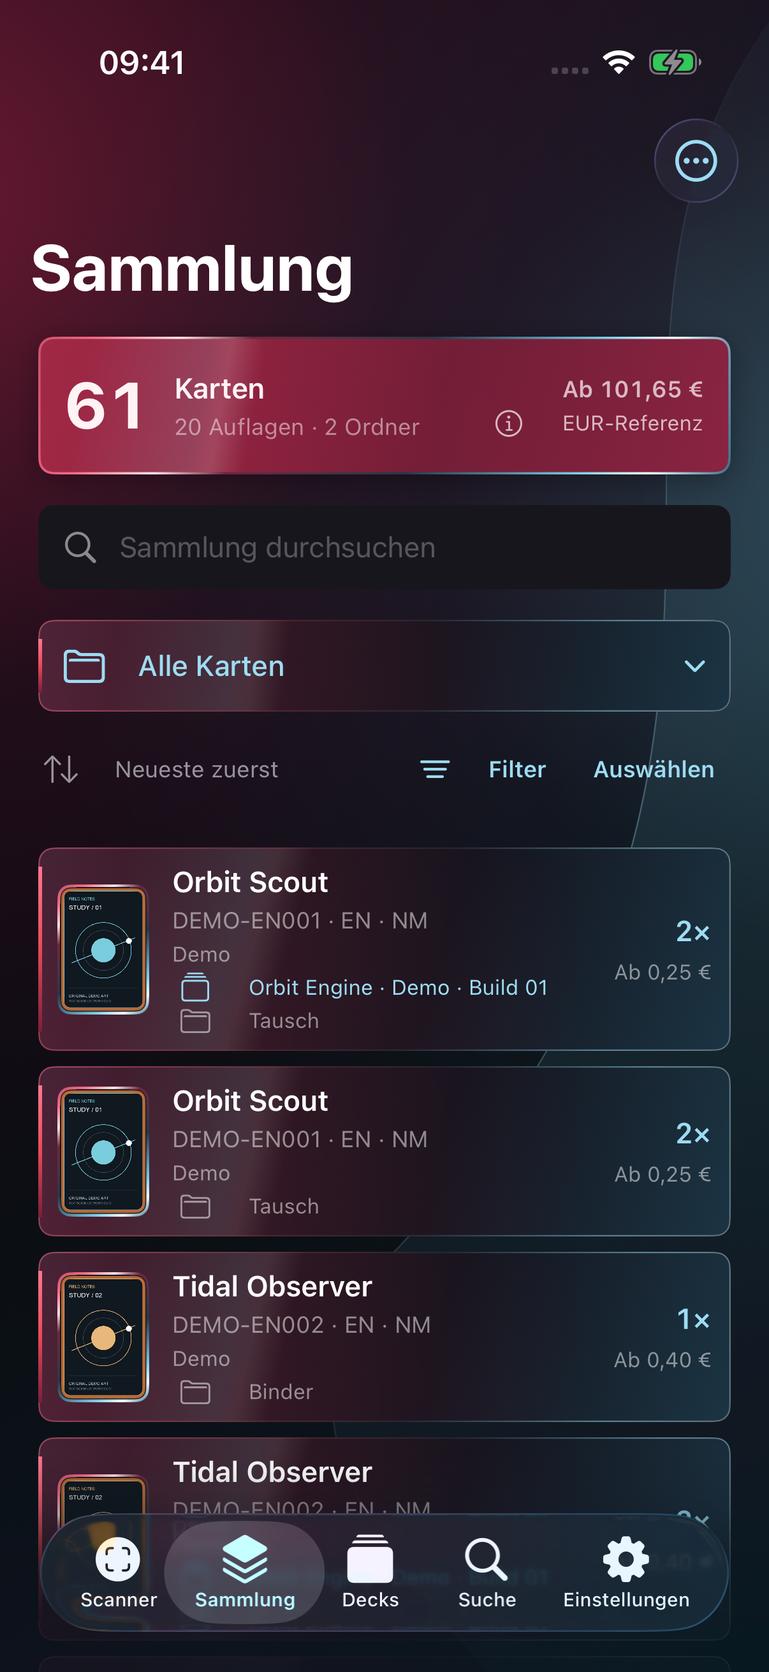
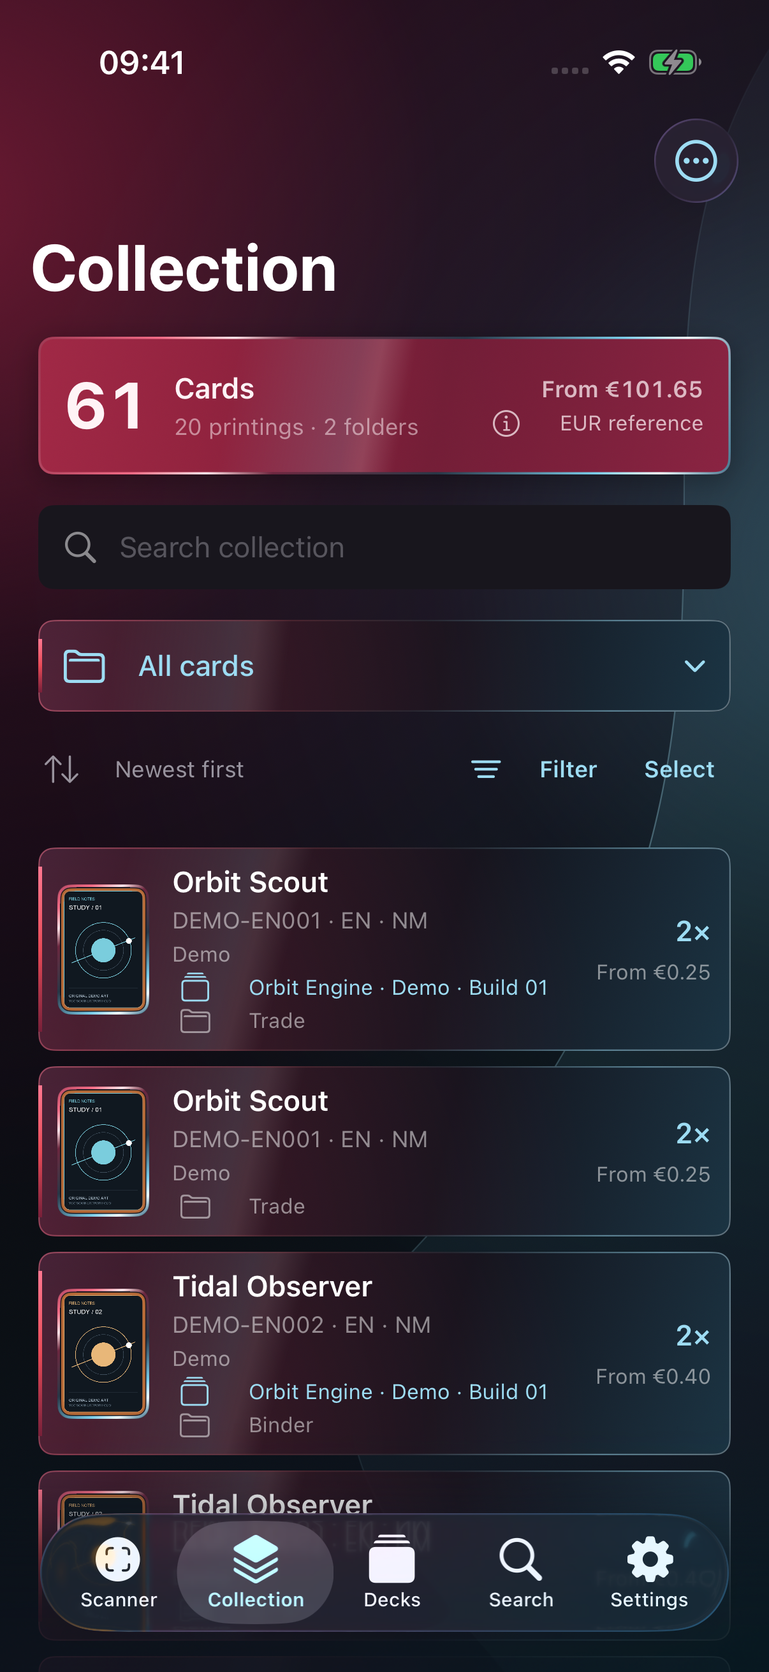
Simplify English showcase and feature Millennium scanner views

diff --git a/scripts/check_repository.py b/scripts/check_repository.py
@@ -20,7 +20,8 @@ required = ['README.md', 'NOTICE.md', 'Package.swift', 'AGENTS.md', 'justfile', 
             'docs/PRD.md', 'docs/ARCHITECTURE.md', 'docs/SCHEMA.md', 'docs/TASKS.md',
             'docs/SCREENSHOTS.md', 'assets/hero.svg', '.github/workflows/check.yml']
 required += [f'assets/screenshots/{name}.png' for name in
-             ['01-collection', '02-deck', '03-card-detail', '04-missing-cards', '05-scan-detail']]
+             ['01-collection', '02-deck', '03-card-detail', '04-missing-cards', '05-scan-detail',
+              '06-scanner', '07-millennium']]
 for name in required:
     if not (ROOT / name).is_file():
         errors.append('Missing required file: ' + name)

diff --git a/README.md b/README.md
@@ -1,63 +1,41 @@
-<img src="assets/hero.svg" alt="YGO Scanner – native iOS-Kartenverwaltung" width="100%">
+<img src="assets/hero.svg" alt="YGO Scanner in the app's purple and gold Millennium style" width="100%">
 
 # YGO Scanner
 
-Eine native iPhone-App, mit der ich meine physische Kartensammlung erfasse, Auflagen auseinanderhalte und Decks mit meinem tatsächlichen Bestand abgleiche.
+A native iPhone companion for scanning cards, organizing a physical collection, and building decks around the copies I actually own.
 
-**Persönliches Projekt von [Hallaka01](https://github.com/Hallaka01)** · SwiftUI · SwiftData · AVFoundation · Vision · iOS 17+
+**A personal project by [Hallaka01](https://github.com/Hallaka01)** · SwiftUI · SwiftData · AVFoundation · Vision · iOS 17+
 
-Dieses Repository ist die öffentliche Projektpräsentation. Es enthält echte Screenshots eines isolierten Demo-Stands und ausgewählte, ausführbare Codeauszüge. Der vollständige App-Code und meine persönlichen Sammlungsdaten bleiben privat. Das Projekt wird KI-unterstützt entwickelt.
+## Inside the app
 
-## Ein Blick in die App
-
-| Sammlung | Deckplanung | Fehlende Exemplare |
+| Scanner | Millennium theme | Deck planning |
 | :---: | :---: | :---: |
-| <img src="assets/screenshots/01-collection.png" width="260" alt="Sammlung mit erfundenen Karten und Bestandsübersicht"> | <img src="assets/screenshots/02-deck.png" width="260" alt="Deckrezept mit Main, Extra und Side sowie Besitzabgleich"> | <img src="assets/screenshots/04-missing-cards.png" width="260" alt="Dynamische Bedarfsliste für fehlende Deckkarten"> |
+| <img src="assets/screenshots/06-scanner.png" width="260" alt="Scanner with a passcode guide and a batch of pending cards"> | <img src="assets/screenshots/07-millennium.png" width="260" alt="Purple and gold Millennium theme with a card gallery"> | <img src="assets/screenshots/02-deck.png" width="260" alt="Deck recipe with copy availability and Main, Extra and Side sections"> |
 
-Alle gezeigten Karten, Texte, Besitzmengen und Preiswerte sind erfunden. Die Grafiken wurden eigens für diese Präsentation gestaltet. Die Screenshots zeigen die tatsächlichen SwiftUI-Ansichten der App, keine nachgebauten Web-Mockups. [Details zur Demo und Bildherkunft](docs/SCREENSHOTS.md)
+The **Millennium** theme pairs deep purple surfaces and gold frames with a card gallery. **Branded** uses crimson accents, pale blue highlights, and compact lists.
 
-Weitere Ansichten: [Kartendetails](assets/screenshots/03-card-detail.png) · [Detail eines Scan-Entwurfs](assets/screenshots/05-scan-detail.png)
+More views: [Branded collection](assets/screenshots/01-collection.png) · [Card details](assets/screenshots/03-card-detail.png) · [Missing copies](assets/screenshots/04-missing-cards.png) · [Scan review](assets/screenshots/05-scan-detail.png)
 
-## Was die App löst
+*Real app views with fictional demo cards. The scanner camera preview is simulated. [Screenshot notes](docs/SCREENSHOTS.md)*
 
-- **Scannen ohne Doppelzählung:** Die Kamera liest den achtstelligen Kartenpasscode. Mehrere unterschiedliche Kamerabilder müssen denselben Treffer bestätigen; ein kurzer Erkennungsaussetzer erzeugt kein zusätzliches Exemplar.
-- **Auflagen bewusst erfassen:** Karten-ID und Druckvariante sind unterschiedliche Informationen. Set-Code, Seltenheit, Sprache und Zustand bleiben getrennt; mehrdeutige Treffer müssen bestätigt werden.
-- **Erst sammeln, dann übernehmen:** Scans landen zunächst in einem lokal gespeicherten Entwurfsstapel. Erst ein ausdrücklicher Transfer verändert Sammlung oder Deck.
-- **Physischer Bestand statt bloßer Listen:** Jedes Exemplar lässt sich einem Ordner und exklusiv einem Deck zuordnen. Die App unterscheidet Gesamtbesitz, freie Exemplare und bereits anderweitig belegte Karten.
-- **Deckbedarf sichtbar machen:** Main, Extra und Side werden gemeinsam gezählt. Fehlmengen erscheinen als dynamische Bedarfsliste und schrumpfen, wenn passende Exemplare hinzukommen.
-- **Daten mitnehmen:** YDK für Deckrezepte, XML für Auswertungen und JSON für die Sicherung von Sammlung und Decks.
+## What it does
 
-## Technische Entscheidungen
+- **Scan and review:** Read card passcodes, confirm repeated observations, and collect scans in a draft batch before saving.
+- **Track physical copies:** Keep printings, language, condition, folders, and deck assignments together.
+- **Plan complete decks:** Manage Main, Extra, and Side; distinguish owned, available, and missing copies.
+- **Keep data portable:** Export YDK decklists, XML reports, and JSON backups.
 
-### Native Kamera und nachvollziehbare Erkennung
+## Under the hood
 
-AVFoundation steuert die Kamera; Vision verarbeitet einen begrenzten Bildausschnitt. OCR-Auswertung, zeitliche Bestätigung und Wiedererkennung sind separate Schritte. So lassen sich problematische Fälle ohne Kamera-Hardware testen.
+SwiftUI handles the interface, AVFoundation and Vision handle camera recognition, and SwiftData stores the collection locally. Card data and images use separate caches.
 
-→ [Scanner-Erkennung und Bestätigung](Examples/ScannerCore/ScanRecognition.swift)
+Selected Swift extracts show [scan confirmation](Examples/ScannerCore/ScanRecognition.swift), [printing codes](Examples/ScannerCore/PrintingCode.swift), and [inventory availability](Examples/ScannerCore/DeckInventory.swift).
 
-### Bestand und Deckrezept getrennt modellieren
+[Architecture](docs/ARCHITECTURE.md) · [Data model](docs/SCHEMA.md)
 
-Ein Rezept mit drei gleichen Karten bedeutet noch nicht, dass drei freie physische Exemplare vorhanden sind. Der Bestandsindex aggregiert eigene, freie und fremdbelegte Exemplare getrennt. Das vermeidet, dieselbe Karte gleichzeitig mehreren Decks als verfügbar anzurechnen.
+## Run the examples
 
-→ [Bestandsabgleich](Examples/ScannerCore/DeckInventory.swift) · [Datenmodell](docs/SCHEMA.md)
-
-### Lokale Speicherung mit klaren Zuständigkeiten
-
-SwiftData speichert Sammlung, Ordner und Decks. Scan-Entwürfe liegen separat als JSON vor; Kartendaten und Bilder werden unabhängig zwischengespeichert. Persistente Objekte bleiben in ihrem jeweiligen Kontext; Listen erhalten dafür geeignete Vorschauwerte.
-
-→ [Architektur und Datenfluss](docs/ARCHITECTURE.md)
-
-### Fremdsprachige Auflagen nicht stillschweigend erraten
-
-Set-Codes werden normalisiert und auf ihre Form geprüft. Eine englische Referenz kann beim Nachschlagen helfen, ersetzt aber nicht automatisch die Bestätigung der tatsächlich vorhandenen Auflage oder deren Preis.
-
-→ [Auflagencode-Normalisierung](Examples/ScannerCore/PrintingCode.swift)
-
-## Die Codebeispiele ausführen
-
-Das kleine Swift-Package enthält unabhängige Auszüge der App-Logik, keine startfähige App. Es benötigt keine API-Zugangsdaten und keine Kartenbilder.
-
-Voraussetzungen: macOS 14+, Swift 5.9+ sowie [just](https://github.com/casey/just) und [Lefthook](https://github.com/evilmartians/lefthook).
+Requires macOS 14+, Swift 5.9+, [just](https://github.com/casey/just), and [Lefthook](https://github.com/evilmartians/lefthook).
 
 ```sh
 just setup
@@ -65,23 +43,10 @@ just check
 just test
 ```
 
-Die Tests behandeln unter anderem mehrdeutige OCR-Treffer, tatsächlich unterschiedliche Kamerabilder, kurze Erkennungsaussetzer und Exemplare, die bereits in einem anderen Deck liegen. GitHub Actions führt die Prüfungen ebenfalls aus.
+Ten tests cover ambiguous OCR, frame confirmation, brief recognition dropouts, printing codes, and copies assigned to other decks. GitHub Actions runs the same checks.
 
-## Projektstatus und Grenzen
+## About
 
-- Die private App ist für meine persönliche Sammlung im Einsatz; dieses Repository ist eine begleitende Präsentation.
-- Der reale Kamerascanner benötigt ein iPhone. Simulator-Screenshots belegen Darstellung und Demo-Abläufe, keine Erkennungsleistung auf physischer Hardware.
-- Bereits gespeicherte Daten sind lokal verfügbar. Neue Kartendaten, Bilder und Aktualisierungen können Internet benötigen.
-- Die Deckprüfung ist eine Unterstützung und keine verbindliche Turnierfreigabe. Kartenpool, Spezialregeln und Aktualität der Datenquelle setzen Grenzen.
-- Eine automatische geräteübergreifende Synchronisierung ist im gezeigten Stand nicht eingerichtet.
-- Es wird hier kein App-Download angeboten. Öffentliche Sichtbarkeit erteilt keine allgemeine Open-Source-Nutzungslizenz; siehe [Nutzung und Rechte](NOTICE.md).
+This repository presents a personal app; the full application and collection data remain private. It contains standalone code examples, not an app download.
 
-## Datenquellen und Einordnung
-
-Die private App nutzt [YGOPRODeck](https://api.ygoprodeck.com/api-guide/) für Kartendaten und ergänzend [Yugipedia](https://yugipedia.com/) für Auflagenrecherchen. Dieses Repository veröffentlicht weder einen vollständigen Kartendatensatz noch offizielle Kartenillustrationen. Die Portfolio-Demo lädt ihre erfundenen Karten lokal.
-
-Unabhängiges persönliches Projekt für das Yu-Gi-Oh! TCG, ohne Verbindung zu Konami. Marken und Spielinhalte verbleiben bei ihren jeweiligen Rechteinhabern.
-
-## English summary
-
-A native iOS collection companion built with SwiftUI, SwiftData, AVFoundation and Vision. The private application combines stable multi-frame card recognition, staged scan batches, physical-copy inventory and deck planning. This public showcase contains real simulator screenshots using entirely fictional demo content and focused, testable Swift extracts. It does not distribute the full app or official card artwork.
+The app uses [YGOPRODeck](https://api.ygoprodeck.com/api-guide/) and [Yugipedia](https://yugipedia.com/) as data sources. This independent project is not affiliated with Konami. [Rights and usage](NOTICE.md)

diff --git a/docs/SCREENSHOTS.md b/docs/SCREENSHOTS.md
@@ -1,36 +1,21 @@
-# Screenshots und Bildherkunft
+# Screenshot notes
 
-## Was gezeigt wird
+Captured from a separate iPhone 17 Pro simulator running the app's SwiftUI views. All cards, text, prices, quantities, and decks are fictional; [demo artwork](../assets/demo-cards) uses original geometric designs.
 
-Die Screenshots wurden am 29. Oktober 2026 mit einem getrennten iPhone-17-Pro-Simulator aufgenommen. Sie zeigen die vorhandenen SwiftUI-Ansichten einer temporären Demo-Kopie der privaten Anwendung.
-
-| Datei | Ansicht |
+| View | Theme |
 | --- | --- |
-| [Sammlung](../assets/screenshots/01-collection.png) | Gruppierte Karten und Sammlungsübersicht. |
-| [Deck](../assets/screenshots/02-deck.png) | Rezept, Bereiche und Bestandsanzeige. |
-| [Kartendetails](../assets/screenshots/03-card-detail.png) | Lesbarer Text und Werte einer erfundenen Karte. |
-| [Fehlende Karten](../assets/screenshots/04-missing-cards.png) | Bedarfsliste auf Basis physischer Verfügbarkeit. |
-| [Scan-Entwurf](../assets/screenshots/05-scan-detail.png) | Detailansicht einer noch nicht übernommenen Karte. |
+| [Collection](../assets/screenshots/01-collection.png) | Branded |
+| [Deck planning](../assets/screenshots/02-deck.png) | Branded |
+| [Card details](../assets/screenshots/03-card-detail.png) | Branded |
+| [Missing copies](../assets/screenshots/04-missing-cards.png) | Branded |
+| [Scan review](../assets/screenshots/05-scan-detail.png) | Branded |
+| [Scanner](../assets/screenshots/06-scanner.png) | Millennium |
+| [Collection gallery](../assets/screenshots/07-millennium.png) | Millennium |
 
-## Anpassungen ausschließlich für die Aufnahme
+The demo uses isolated in-memory storage and local images. Its labels are translated into English for this presentation. The original private application is unchanged.
 
-- Getrennte In-Memory-Datenbank; kein Zugriff auf die echte Sammlung.
-- Erfundenes Demo-Deck sowie erfundene Karten, Werte, Texte und Preisreferenzen.
-- Originale geometrische Demo-Grafiken aus [assets/demo-cards](../assets/demo-cards).
-- Eigenständiges Scanner-Signet statt des privaten App-Brandings.
-- Lokale Bildauflösung für die Demo-Karten; keine Abfragen nach echten Karten.
-- Ein vorab gefüllter Scan-Stapel demonstriert den Entwurfsablauf. Das ist keine Aufnahme einer echten Kameraerkennung.
+The scanner uses a static, explicitly labeled simulated camera preview and a prefilled draft batch. Its guide and controls are the app's existing UI; the screenshot does not demonstrate live camera recognition.
 
-Die Screenshots wurden automatisiert mit XCTest aus der laufenden App aufgenommen. Die UI wurde für das Portfolio nicht als HTML nachgebaut. Der vollständige Aufnahme-Build und seine Projektdateien sind kein Bestandteil dieses Repositorys.
+The banner uses the Millennium palette and framing. No official card illustrations, copied effect text, or private app assets are distributed.
 
-## Originalgrafiken
-
-Die sechs Demo-Kartenbilder, das Scanner-Signet und der SVG-Titelbanner wurden für dieses Portfolio aus eigenen geometrischen Formen und Text erstellt. Sie enthalten keine offiziellen Kartenrahmen, Illustrationen oder übernommenen Spieltexte. Die Originale liegen unter [assets](../assets).
-
-## Codeauszüge
-
-- `ScanRecognition.swift`: von UI, Kamera und Netzwerk unabhängige Erkennungs- und Bestätigungslogik.
-- `PrintingCode.swift`: Normalisierung und Prüfung von Auflagencodes; die vom vollständigen Kartendatenmodell abhängige Lookup-Struktur wurde weggelassen.
-- `DeckInventory.swift`: unveränderte Bestandsberechnung mit den dafür erforderlichen kleinen Werttypen aus separaten App-Dateien zusammengeführt.
-
-Diese Auszüge dienen der nachvollziehbaren technischen Begutachtung und führen keine privaten Sammlungsdaten mit.
+Code extracts preserve the app's core logic. Printing lookup dependencies are omitted; inventory value types are combined into one standalone file.

diff --git a/docs/ARCHITECTURE.md b/docs/ARCHITECTURE.md
@@ -1,19 +1,17 @@
-# Architektur
+# Architecture
 
-## Präsentations-Repository
-GitHub rendert README und Dokumentation. PNG-Screenshots liegen unter `assets/screenshots/`; eigenständig gestaltete Demo-Karten unter `assets/demo-cards/`. Das Swift-Package enthält ausgewählte, von Kamera, Netzwerk und SwiftData unabhängige Kernlogik. Es ist keine startfähige iOS-App.
+## Application
 
-## Gezeigte App
-Native iOS-App für iOS 17+: SwiftUI, SwiftData, AVFoundation, Vision und URLSession. Feature-Bereiche: Scanner, Sammlung, Decks, Suche und Einstellungen. Geschäftslogik und Modelle liegen getrennt von den Views im Core-Bereich.
+The private app targets iOS 17+ and uses SwiftUI, SwiftData, AVFoundation, Vision, and URLSession. Its main areas are scanning, collection, decks, search, and settings.
 
-Ein Kamerabild wird auf die Lesezone begrenzt, per Vision erkannt und über mehrere unterschiedliche Bilder bestätigt. Ein bestätigter Treffer wird erst als Entwurf gesammelt. Erst der ausdrückliche Transfer verändert Sammlung oder Deck.
+Camera observations pass through OCR parsing, confirmation across distinct frames, and duplicate suppression. Accepted cards enter a draft batch; an explicit transfer saves them to the collection or a deck.
 
-SwiftData speichert physische Karten, Decks, Deckeinträge und Ordner lokal. API-Antworten und Bilder werden getrennt zwischengespeichert. Ein Export erzeugt JSON-Sicherungen, XML zur Analyse oder YDK-Deckrezepte.
+SwiftData stores physical copies, folders, and deck recipes. Scan drafts use a separate JSON file. Card responses and images have independent caches.
 
-## Screenshot-Verfahren
-Eine temporäre Kopie des privaten Projekts wird mit isolierten Demo-Daten und eigenen Bilddateien gestartet. Die ursprünglichen UI-Komponenten werden verwendet. Keine persönlichen Daten und keine historischen App-Dateien werden in dieses Repository kopiert. Das vollständige temporäre Projekt ist kein Bestandteil des Portfolios.
+Themes share the same views and palette system. Millennium adds purple surfaces, gold frames, and a collection gallery; Branded uses crimson and pale blue accents with list layouts.
 
-## Qualität
-`just check` prüft Dokumentationslinks und Veröffentlichungsgrenzen; `just test` führt die Swift-Tests aus. Lefthook wiederholt die passenden Prüfungen vor Commit und Push. GitHub Actions führt beide Gates auf macOS aus.
+## Showcase
 
-Die Swift-Buildprodukte liegen unter dem temporären Systemverzeichnis. Das hält generierte Compiler-Dateien außerhalb von iCloud-Projektordnern und vermeidet Dateisynchronisierung während des Builds.
+The Swift package contains small extracts without camera, network, or SwiftData dependencies. Screenshots come from a separate demo copy using fictional data and original artwork. English labels and a simulated scanner preview are presentation-only adjustments.
+
+`just check` verifies sources, links, and publication boundaries; `just test` runs the Swift tests. Lefthook and GitHub Actions repeat these checks. Generated Swift build files stay in the system temporary directory to avoid synchronization conflicts.

diff --git a/docs/PRD.md b/docs/PRD.md
@@ -1,17 +1,21 @@
-# YGO Scanner · Portfolio-Anforderungen
+# Showcase requirements
 
-## Ziel
-Ein öffentliches, auf dem persönlichen GitHub-Profil anheftbares Präsentations-Repository für die bestehende private iOS-App. Besucher verstehen Nutzen, technische Entscheidungen und ausgewählte Implementierungen, ohne Zugriff auf private Sammlungsdaten oder den vollständigen App-Code zu benötigen.
+## Purpose
 
-## Umfang
-- Deutsche Projektbeschreibung mit kurzer englischer Zusammenfassung.
-- Echte Simulator-Screenshots der App mit ausschließlich erfundenen Karten, originalen Demo-Grafiken und getrenntem In-Memory-Datenbestand.
-- Kleine, ausführbare Swift-Codeauszüge für OCR-Auswertung, Scan-Bestätigung und Auflagencode-Normalisierung.
-- Dokumentierte lokale Speicherstruktur, Datenfluss und Grenzen der Demo.
-- Profil-Verlinkung und Pin des öffentlichen Repos, sofern möglich.
+Present an existing private iOS app on a public GitHub profile. Visitors should quickly understand the app through screenshots, a short feature overview, and selected code examples.
 
-## Bewusste Grenzen
-Keine App-Veröffentlichung, keine neue App, kein Backend, keine Anmeldung. Kein privates Git-Verzeichnis, keine privaten Sammlungsdaten, keine offiziellen Kartenbilder oder Kartentexte, keine Feli-Karte. Keine pauschale Open-Source-Lizenz; das Repository dient zunächst der öffentlichen Begutachtung.
+## Scope
 
-## Abnahme
-Alle lokalen Verweise funktionieren; Bilder sind visuell geprüft. Swift-Beispiele bestehen ihre Tests. Die ursprüngliche App bleibt privat und unverändert. Das öffentliche Repo enthält ausschließlich die hier beschriebenen Inhalte.
+- English copy throughout the presentation, including the banner and screenshot UI.
+- A concise README without process commentary or repetitive disclaimers.
+- Real app views showing the scanner, Millennium gallery, Branded collection, and deck planning.
+- Fictional cards and original demo artwork; clearly identify the simulated camera preview.
+- Standalone Swift extracts, tests, and compact architecture and data model notes.
+
+## Boundaries
+
+Keep the original app, Git history, credentials, and real collection private. Do not distribute official card artwork or copied card text. Existing usage rights remain unchanged.
+
+## Acceptance
+
+Review the screenshots and rendered README, verify local links and Swift checks, publish the update, and keep the original app unchanged.

diff --git a/docs/SCHEMA.md b/docs/SCHEMA.md
@@ -1,22 +1,14 @@
-# Datenmodell und Demo-Daten
+# Data model
 
-Das Präsentations-Repository selbst benötigt keine Datenbank und enthält keine Datenbankdateien.
-
-## Datenmodell der privaten App
-| Typ | Aufgabe |
+| Model | Responsibility |
 | --- | --- |
-| CardItem | Ein physisches Exemplar mit Karten-ID, Auflage, Sprache, Zustand, Notizen sowie optionaler Ordner- und Deckzuordnung. |
-| Deck | Rezept mit Name, Variante, Format und Einträgen. |
-| DeckEntry | Karten-ID, Main-/Extra-/Side-Bereich und Menge; Kartentext und Regelreferenzen werden für die Offline-Anzeige mitgespeichert. |
-| CollectionFolder | Benannter Sammlungsordner mit eigener Identität. |
+| CardItem | One physical copy, including card identity, printing, language, condition, notes, and optional folder and deck assignments. |
+| Deck | A named recipe with a variant, format, and entries. |
+| DeckEntry | Card identity, Main/Extra/Side section, quantity, and cached details for offline display. |
+| CollectionFolder | A named collection folder with its own identity. |
 
-Drei physische Exemplare sind drei CardItems. Ein Rezept kann dagegen einen DeckEntry mit Menge drei enthalten. Eine exklusive Deckzuordnung eines physischen Exemplars wird getrennt vom Rezept geführt.
+Three physical copies are three CardItems. A recipe can represent them with one DeckEntry of quantity three. Physical deck assignments remain separate from recipe quantities, so a copy assigned elsewhere is not counted as available.
 
-## Weitere Speicher
-- Scan-Entwürfe: separate lokale JSON-Datei.
-- Kartendaten: zeitlich begrenzter JSON-Cache.
-- Bilder: lokaler Dateicache.
-- Design-, Ton- und Haptikpräferenzen: UserDefaults.
+SwiftData persists these models locally. Draft scans and cached card responses use JSON; images use a file cache; preferences use UserDefaults.
 
-## Veröffentlichte Demo
-Namen, Texte, Preise, Besitzmengen und Decks in den Screenshots sind erfunden. Demo-IDs sind ausschließlich synthetische Testdaten und keine überprüften Spielkarten-IDs. Grafiken sind eigenständige geometrische Entwürfe. Es werden keine API-Abfragen für die Demo-Karten benötigt.
+The showcase contains no database. Screenshot cards, text, prices, quantities, and IDs are synthetic demo content.

diff --git a/NOTICE.md b/NOTICE.md
@@ -1,11 +1,9 @@
-# Nutzung und Rechte
+# Rights and usage
 
-Copyright © 2026 Hallaka01. Alle Rechte vorbehalten, soweit gesetzlich vorgesehen.
+Copyright © 2026 Hallaka01. All rights reserved where applicable.
 
-Dieses Repository wird zur öffentlichen Projektpräsentation und Begutachtung bereitgestellt. Es wurde derzeit keine Open-Source-Lizenz für eine weitergehende Nutzung, Veränderung oder Weiterverbreitung erteilt. Gesetzliche Befugnisse und die durch die GitHub-Nutzungsbedingungen eingeräumten Rechte bleiben unberührt.
+This repository is provided for public presentation and review. No general open-source license is granted for further use, modification, or redistribution. Statutory rights and rights granted by GitHub's terms remain unaffected.
 
-Die enthaltenen Demo-Grafiken, Kartennamen und Beispieltexte wurden eigens für diese Präsentation erstellt. Sie sind keine offiziellen Spielinhalte.
+Demo artwork, card names, and example text were created for this showcase and are not official game content. No complete card dataset or official card illustrations are distributed.
 
-Yu-Gi-Oh! und zugehörige Marken gehören ihren jeweiligen Rechteinhabern. Dies ist ein unabhängiges persönliches Projekt und steht in keiner Verbindung zu Konami. Der Hinweis beschreibt den Anwendungsbereich der privaten App und stellt keine Rechteübertragung an Spielinhalten dar.
-
-Technische Schnittstellen und Dokumentationen Dritter unterliegen ihren eigenen Bedingungen. Das Repository enthält keinen vollständigen Kartendatensatz und keine offiziellen Kartenillustrationen.
+Yu-Gi-Oh! and related trademarks belong to their respective owners. This independent personal project is not affiliated with Konami. Third-party services and documentation remain subject to their own terms.

diff --git a/docs/TASKS.md b/docs/TASKS.md
@@ -1,11 +1,12 @@
-# Aufgabenstand
+# Task status
 
-`[ ]` offen · `[~]` in Arbeit · `[x]` geprüft und abgeschlossen
+`[ ]` Todo · `[~]` In progress · `[x]` Verified and complete
 
-- [x] T-01: Umfang und getrennte Veröffentlichung festlegen; private App und Profil prüfen.
-- [x] T-02: Simulator-Demo mit erfundenen Karten und eigenen Grafiken vorbereiten; Screenshots aufnehmen.
-- [x] T-03: README, Architektur, Datenmodell und Bildherkunft dokumentieren.
-- [x] T-04: Ausgewählte Swift-Kernlogik mit sinnvollen Tests veröffentlichungsfähig aufbereiten.
-- [x] T-05: Justfile, Hooks und CI einrichten; Inhalte und Darstellung prüfen.
-- [x] T-06: Eigenständiges öffentliches Repository erstellen und geprüften Stand übertragen.
-- [x] T-07: Repo auf dem persönlichen Profil anheften; öffentliche Erreichbarkeit und private Original-App prüfen.
+- [x] T-01: Define the showcase scope and inspect the private app and public profile.
+- [x] T-02: Prepare isolated demo data and original artwork; capture app screenshots.
+- [x] T-03: Document the project, architecture, data model, and screenshot sources.
+- [x] T-04: Extract focused Swift logic and add meaningful tests.
+- [x] T-05: Configure just, hooks, and CI; verify the presentation.
+- [x] T-06: Publish the separate public repository.
+- [x] T-07: Add the profile link and pin; verify the original app remains private.
+- [x] T-08: Shorten and translate all presentation copy; refresh screenshots with English labels, scanner UI, and Millennium gallery; match the banner to the app.
